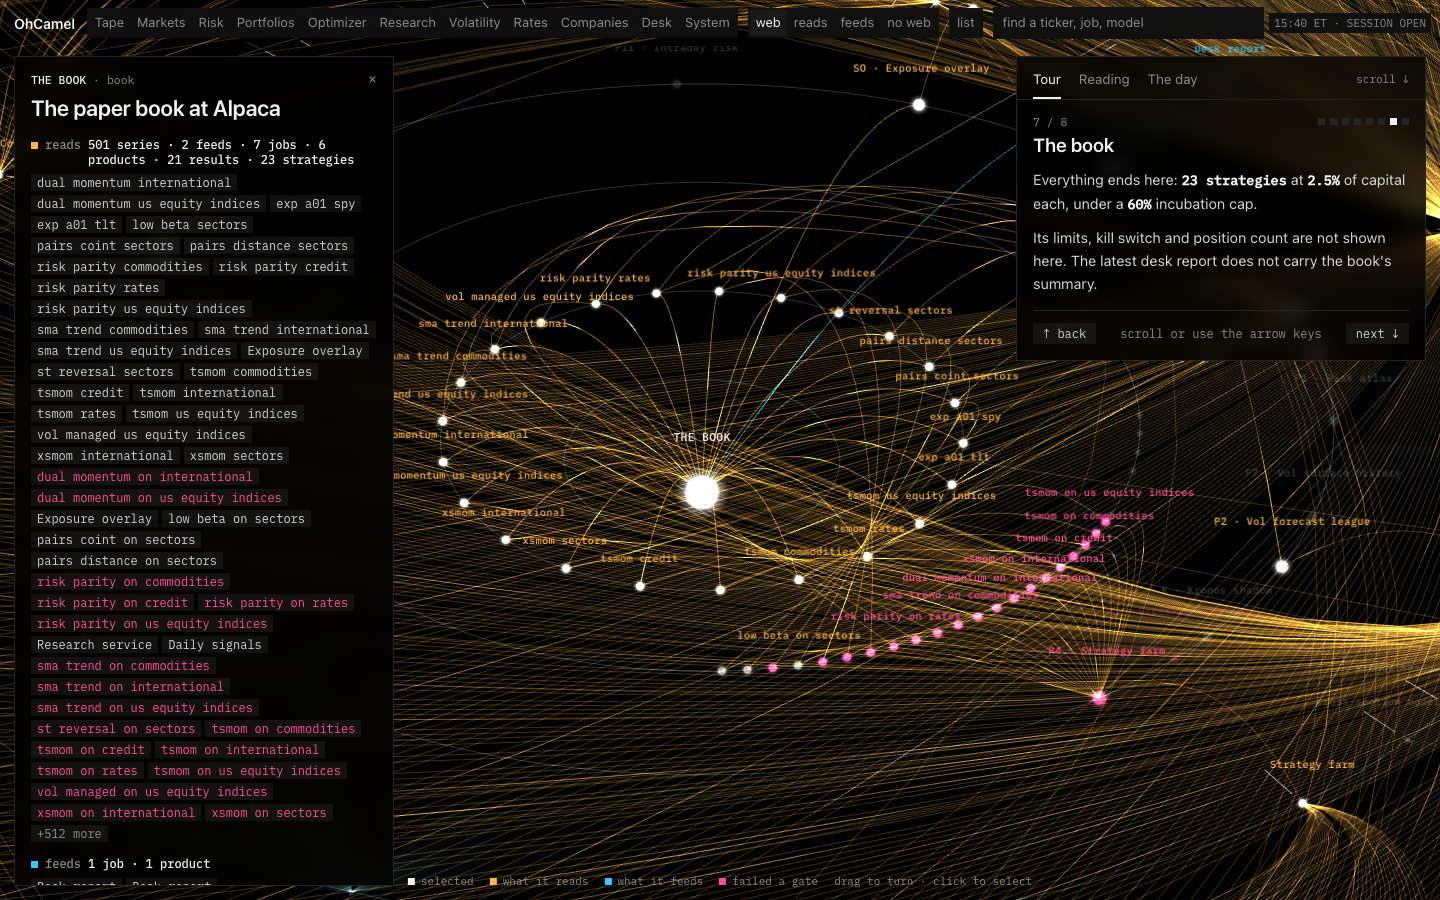
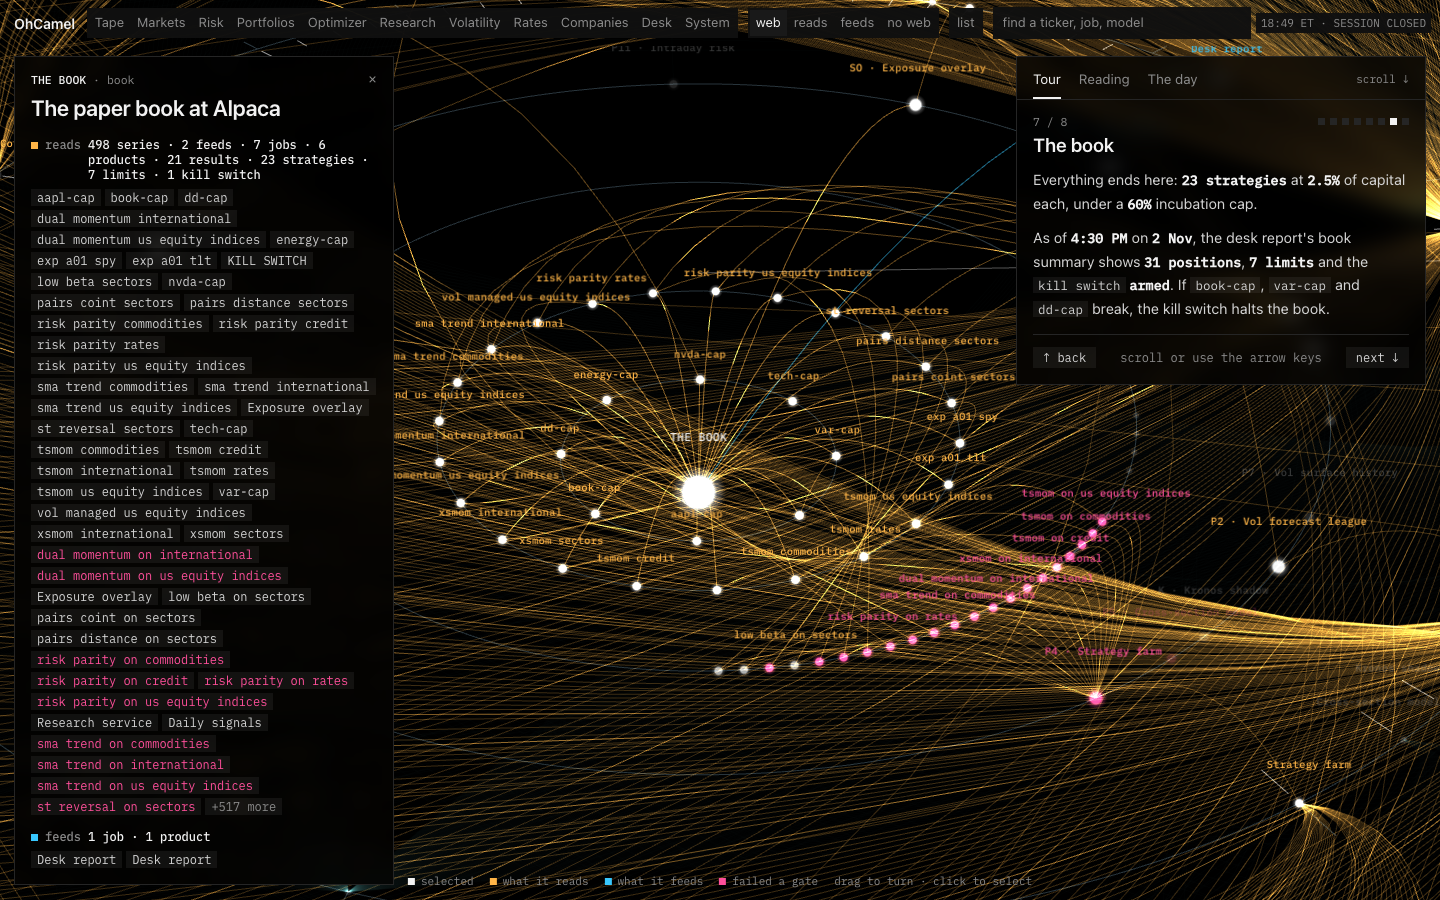
docs: the book reaches the Machine with Monday's report -- step 7 retaken from the live site at 1440 and 375, and status.md says when book_summary first appeared

diff --git a/docs/status.md b/docs/status.md
@@ -51,7 +51,7 @@ options as an overlay at an assumed delta; a 13F gives no strike or expiry, so t
 | Cost | $24/month, metered hourly, capped |
 | Proxy / TLS | Caddy, Let's Encrypt, HTTP→HTTPS 308, HSTS, a CSP measured per route. Only Caddy has a host port |
 | DNS | Porkbun: A records `ohcamel` and `live.ohcamel` on the owner's domain |
-| **Deployed — public host** | **`b223aad`** (crawler metadata, the `/engine` replay, liquidity on `/risk`, the 13F option overlay, the live book off `/api/artifacts`, and the tear sheet's notice for a book that loses all its equity in a day), deployed by the owner on 2026-11-01 with `--public-only`; `OHCAMEL_QUANT_ENGINE_URL` is set in `deploy/.env`, so the bridge is on; smoke 27 passed, 0 failed, 3 skipped. Scion's filing with the option overlay shows the notice in place of the tear sheet: -122% on 2020-11-05 at the default monthly rebalance, and its Risk page figures still answer. Checked after it: `desk.report`'s fills and `pnl_by_strategy` and `signals.overlay`'s `names` answer 404, a `desk.report` note says the rest is withheld, `/api/engine/vitals` and `status` carry no symbol, limit or quantity, and `snapshot` and `history` answer 503. `/api/machine` is 142 KB gzipped and answers in 0.2 s; a cold build takes 1.9 s and peaks near 310 MiB on the droplet. `book_summary` first appears with the next weekday 16:30 `desk.report` |
+| **Deployed — public host** | **`b223aad`** (crawler metadata, the `/engine` replay, liquidity on `/risk`, the 13F option overlay, the live book off `/api/artifacts`, and the tear sheet's notice for a book that loses all its equity in a day), deployed by the owner on 2026-11-01 with `--public-only`; `OHCAMEL_QUANT_ENGINE_URL` is set in `deploy/.env`, so the bridge is on; smoke 27 passed, 0 failed, 3 skipped. Scion's filing with the option overlay shows the notice in place of the tear sheet: -122% on 2020-11-05 at the default monthly rebalance, and its Risk page figures still answer. Checked after it: `desk.report`'s fills and `pnl_by_strategy` and `signals.overlay`'s `names` answer 404, a `desk.report` note says the rest is withheld, `/api/engine/vitals` and `status` carry no symbol, limit or quantity, and `snapshot` and `history` answer 503. `/api/machine` is 142 KB gzipped and answers in 0.2 s; a cold build takes 1.9 s and peaks near 310 MiB on the droplet. `book_summary` first appeared with the 16:30 `desk.report` of 2026-11-02, and the Machine's step 7 states it |
 | **Deployed — live host** | **`d017a93`** (a standing document re-sized at the newest close, `006cc09`, and the `--live` window closing at 17:10), deployed 2026-10-28 21:35 ET with `--live`; the pre-deploy journal copy is `/var/backups/ohcamel/pre-deploy-20261029T013404Z-8650c95eb485.db`; smoke 45 passed, 0 failed, 2 skipped. Kill switch armed and clear, desk enabled, five positions intact, 23 strategies registered |
 | Not deployed | `auto/feed-reconnect`, on main once CI is green, needs `--live` after 17:10 New York: a 406 is retried in the process and a name that printed nothing rolls at zero (*What the first weeks taught*, below). `007e1a6` changes only `scripts/uptime.sh` and this page, and the uptime workflow reads the script from the repository |
 
